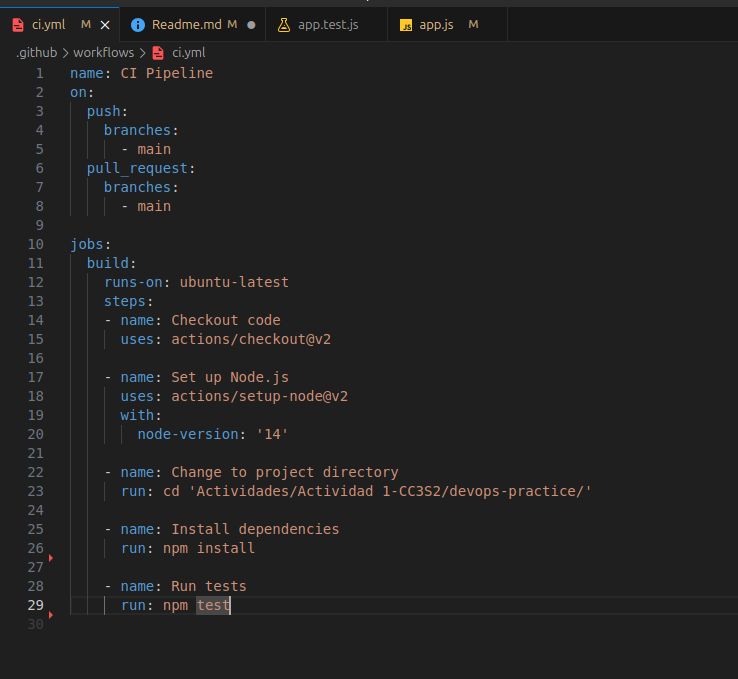
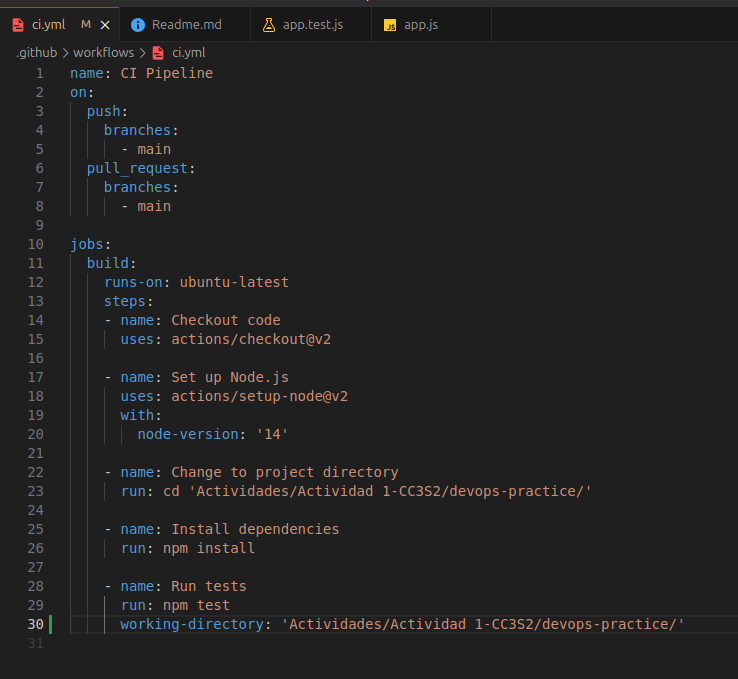
CI-Prueba-2

Changed region(s): [[0.1558, 0.866, 0.9038, 0.9278], [0.2182, 0.0309, 0.6545, 0.0619], [0.0312, 0.866, 0.0935, 0.9588]]

diff --git a/Actividades/Actividad 1-CC3S2/Readme.md b/Actividades/Actividad 1-CC3S2/Readme.md
@@ -133,7 +133,7 @@ build (linea 10 y 11).
   
 - El paso de de Install dependencies es explícito, y se logra ejecutando un npm install para ejecutar las dependencias del package.json (línea 26).  
   
-- Y el paso de Run tests también estpa explícito, simplemete se corren los test con npm test. (linea 29)
+- Y el paso de Run tests también estpa explícito, simplemete se corren los test con npm test. (linea 29), y el working-directory es para asegurarse que el npm test se ejecuta en el directorio correcto (sin eso me salía error en este paso).
   
 ### 2.1.3 Sube el código a GitHub: 
 Usamos para ello un git push y en la seccion de github de Action debería aparecer el flujo de trabajo que se escribió en el ci.yml  
